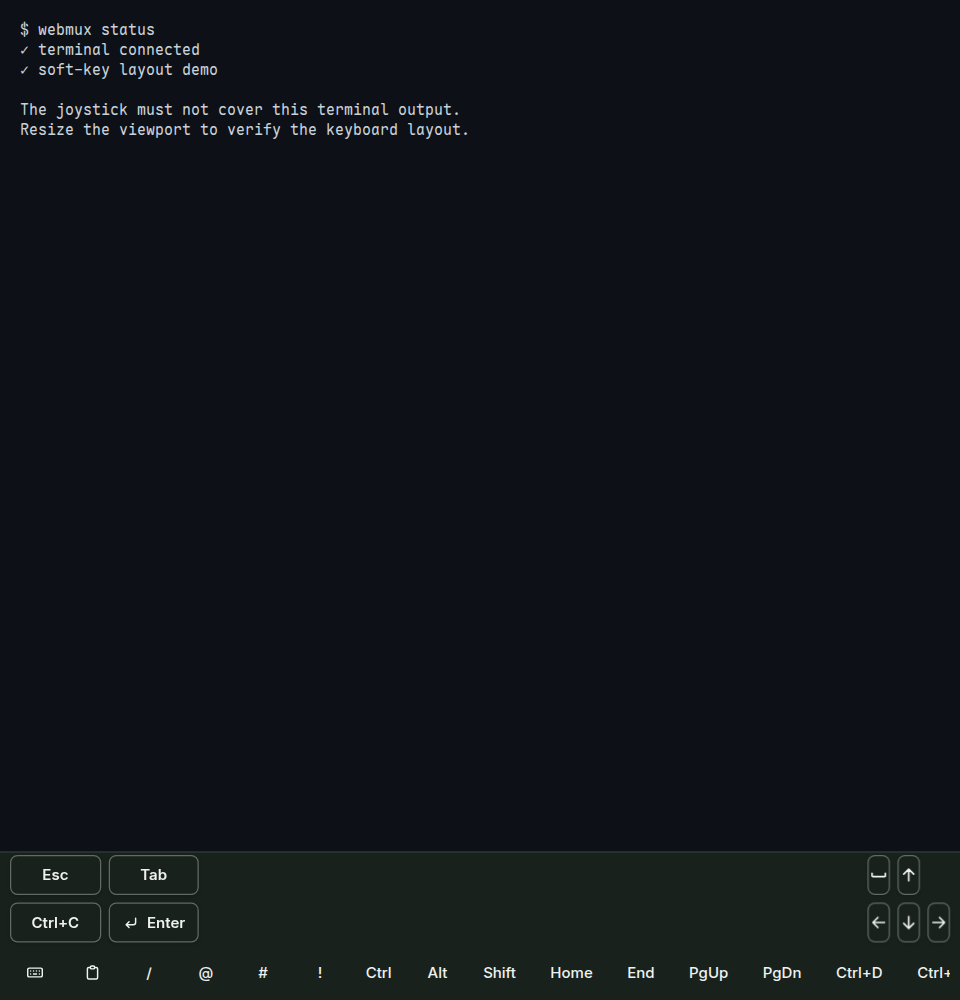
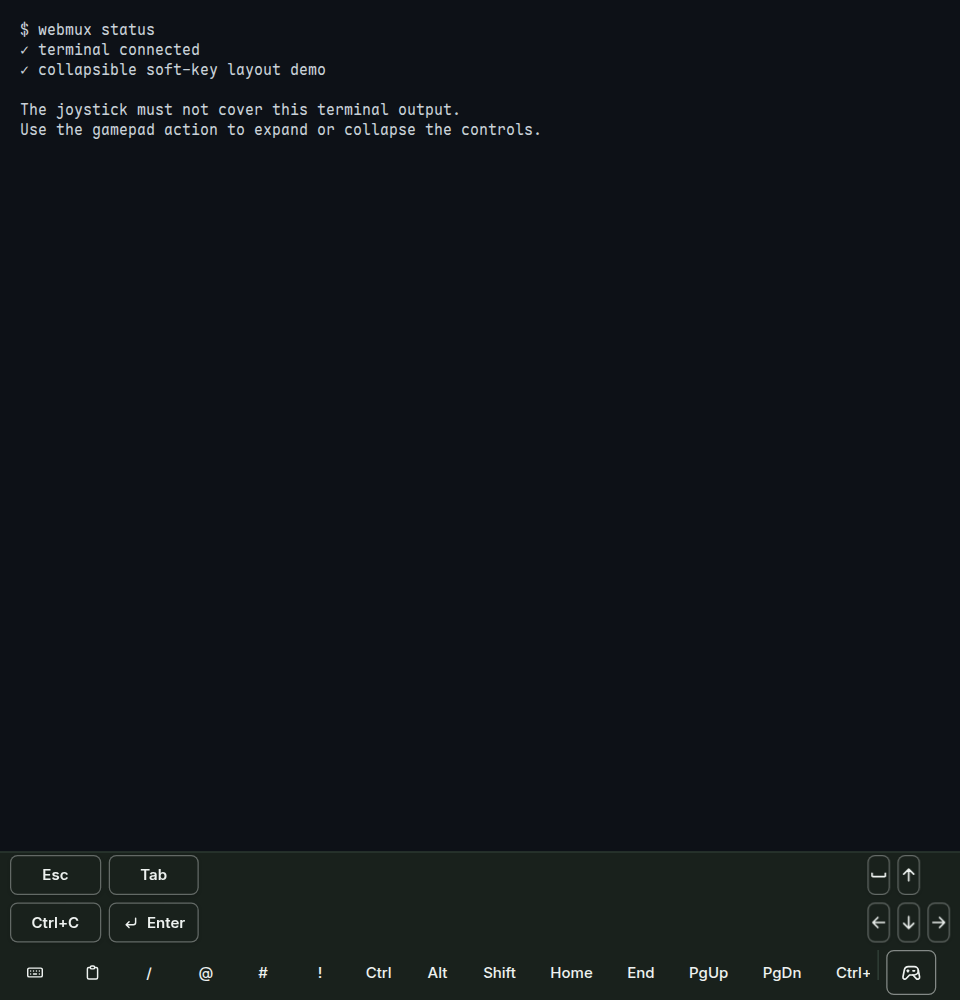
feat(web): collapse gamepad from soft keys

Changed region(s): [[0.0312, 0.124, 0.5625, 0.155], [0.0625, 0.062, 0.3438, 0.093], [0.9062, 0.961, 1.0, 1.0]]

diff --git a/web/test/e2e/softkeys.spec.ts b/web/test/e2e/softkeys.spec.ts
@@ -407,10 +407,6 @@ test("desktop devices can force the soft-key toolbar on and off through the term
     name: "强制显示底部工具栏",
     exact: true,
   });
-  const gamepadToggle = page.getByRole("menuitemcheckbox", {
-    name: "软键盘摇杆模式",
-    exact: true,
-  });
   const input = page.locator(".xterm-helper-textarea");
   const keyboard = bar.getByRole("button", { name: "唤起或收起键盘" });
 
@@ -429,11 +425,12 @@ test("desktop devices can force the soft-key toolbar on and off through the term
   await keyboard.click();
   await expect(input).not.toBeFocused();
 
-  await menu.click();
-  await gamepadToggle.click();
-  await page.keyboard.press("Escape");
+  await bar.getByRole("button", { name: "展开摇杆", exact: true }).click();
   const gamepad = bar.getByRole("toolbar", { name: "终端摇杆" });
   await expect(gamepad).toBeVisible();
+  await expect(
+    bar.getByRole("button", { name: "收起摇杆", exact: true }),
+  ).toHaveAttribute("aria-expanded", "true");
 
   await menu.click();
   await expect(override).toBeChecked();
@@ -458,9 +455,8 @@ test("touch gamepad mode lays out inside the soft-key bar without covering the t
   const id = await createShell(page, "Touch gamepad", workDir);
   const bar = page.getByRole("complementary", { name: "终端软键" });
   const gamepad = bar.getByRole("toolbar", { name: "终端摇杆" });
-  const menu = page.getByRole("button", { name: "终端菜单", exact: true });
-  const toggleItem = page.getByRole("menuitemcheckbox", {
-    name: "软键盘摇杆模式",
+  const gamepadToggle = bar.getByRole("button", {
+    name: "展开摇杆",
     exact: true,
   });
 
@@ -473,12 +469,12 @@ test("touch gamepad mode lays out inside the soft-key bar without covering the t
     bar.getByRole("button", { name: "↵", exact: true }),
   ).toBeVisible();
 
-  // Enable touch gamepad mode via terminal menu.
-  await menu.tap();
-  await expect(toggleItem).not.toBeChecked();
-  await toggleItem.tap();
-  await expect(toggleItem).toBeChecked();
-  await page.keyboard.press("Escape");
+  // Expand the gamepad from the fixed soft-key action.
+  await expect(gamepadToggle).toHaveAttribute("aria-expanded", "false");
+  await gamepadToggle.tap();
+  await expect(
+    bar.getByRole("button", { name: "收起摇杆", exact: true }),
+  ).toHaveAttribute("aria-expanded", "true");
 
   // Controlling client sees the gamepad in the bar and a deduplicated key row.
   await expect(gamepad).toBeVisible();
@@ -546,4 +542,10 @@ test("touch gamepad mode lays out inside the soft-key bar without covering the t
   await gamepad.getByRole("button", { name: "空格", exact: true }).tap();
   await gamepad.getByRole("button", { name: "回车", exact: true }).tap();
   await expect.poll(() => readFile(received, "utf8")).toBe("\x1b \r");
+
+  await bar.getByRole("button", { name: "收起摇杆", exact: true }).tap();
+  await expect(gamepad).toBeHidden();
+  await expect(
+    bar.locator(".soft-row").getByRole("button", { name: "Esc", exact: true }),
+  ).toBeVisible();
 });

diff --git a/web/src/components/TerminalViewport.svelte b/web/src/components/TerminalViewport.svelte
@@ -1,6 +1,7 @@
 <script lang="ts">
   import type { Snippet } from "svelte";
   import IconArrowDown from "~icons/tabler/arrow-down";
+  import IconDeviceGamepad2 from "~icons/tabler/device-gamepad-2";
   import {
     Button,
     type ButtonSize,
@@ -45,6 +46,7 @@
     paste,
     keyboard,
     touchGamepad = false,
+    setTouchGamepad,
     findOpen = false,
     findBar,
   }: {
@@ -64,17 +66,19 @@
     paste: () => Promise<void>;
     keyboard: () => void;
     touchGamepad?: boolean;
+    setTouchGamepad: (value: boolean) => void;
     findOpen?: boolean;
     findBar?: Snippet;
   } = $props();
 
-  const gamepadActive = $derived(
-    touchGamepad &&
-      t.controlling === true &&
+  const gamepadAvailable = $derived(
+    t.controlling === true &&
       t.connection !== "missing" &&
       (t.exitCode === null || t.exitCode === undefined) &&
       visible,
   );
+  const gamepadActive = $derived(touchGamepad && gamepadAvailable);
+  const gamepadToggleLabel = $derived(gamepadActive ? "收起摇杆" : "展开摇杆");
 
   // Keep the hint off touch screens, including hybrids whose secondary pointer
   // is coarse, and mirror the platform's actual copy shortcut.
@@ -156,10 +160,20 @@
     }}
     {keyboard}
   >
-    {#snippet trailing()}{@render draftToggle()}{@render quickMenu(
-        "top",
-        "icon-sm",
-        "ghost",
-      )}{/snippet}
+    {#snippet trailing()}
+      <Button
+        variant="ghost"
+        size="icon-sm"
+        aria-label={gamepadToggleLabel}
+        title={gamepadToggleLabel}
+        aria-expanded={gamepadActive}
+        disabled={!gamepadAvailable}
+        onmousedown={(event) => event.preventDefault()}
+        onclick={() => setTouchGamepad(!touchGamepad)}
+      >
+        <IconDeviceGamepad2 aria-hidden="true" />
+      </Button>
+      {@render draftToggle()}{@render quickMenu("top", "icon-sm", "ghost")}
+    {/snippet}
   </SoftKeys>
 </div>

diff --git a/web/test/browser/TerminalViewport.test.ts b/web/test/browser/TerminalViewport.test.ts
@@ -19,6 +19,9 @@ test("touch gamepad renders only when enabled and controlling, supports slide-to
 
   // Not controlling: gamepad is hidden and bottom row keeps full keys.
   expect(document.querySelector('[aria-label="终端摇杆"]')).toBeNull();
+  await expect
+    .element(page.getByRole("button", { name: "展开摇杆" }))
+    .toBeDisabled();
   expect(
     [...document.querySelectorAll(".soft-row button")].some(
       (b) => b.textContent === "Esc",
@@ -123,6 +126,32 @@ test("touch gamepad renders only when enabled and controlling, supports slide-to
       pointerId: 2,
     }),
   );
+});
+
+test("soft-key action expands and collapses the gamepad", async () => {
+  const setTouchGamepad = vi.fn();
+  const view = await render(Harness, {
+    connection: "connected",
+    controlling: true,
+    touchGamepad: false,
+    setTouchGamepad,
+  });
+
+  const expand = page.getByRole("button", { name: "展开摇杆" });
+  await expect.element(expand).toHaveAttribute("aria-expanded", "false");
+  await expand.click();
+  expect(setTouchGamepad).toHaveBeenCalledWith(true);
+
+  await view.rerender({
+    connection: "connected",
+    controlling: true,
+    touchGamepad: true,
+    setTouchGamepad,
+  });
+  const collapse = page.getByRole("button", { name: "收起摇杆" });
+  await expect.element(collapse).toHaveAttribute("aria-expanded", "true");
+  await collapse.click();
+  expect(setTouchGamepad).toHaveBeenCalledWith(false);
 });
 
 test.each(["connecting", "reconnecting"] as const)(

diff --git a/web/src/components/TerminalHeader.svelte b/web/src/components/TerminalHeader.svelte
@@ -61,8 +61,6 @@
     setSizeLocked,
     keyboardSizeHold,
     setKeyboardSizeHold,
-    touchGamepad = false,
-    setTouchGamepad = () => {},
     codeShown = $bindable(),
     forceSoftKeys = $bindable(),
     quickMenu,
@@ -89,8 +87,6 @@
     setSizeLocked: (value: boolean) => void;
     keyboardSizeHold: boolean;
     setKeyboardSizeHold: (value: boolean) => void;
-    touchGamepad?: boolean;
-    setTouchGamepad?: (value: boolean) => void;
     codeShown: boolean;
     forceSoftKeys: boolean;
     quickMenu: Snippet<["top" | "bottom", ButtonSize?, ButtonVariant?]>;
@@ -409,12 +405,6 @@
           </DropdownMenu.CheckboxItem>
           <DropdownMenu.CheckboxItem bind:checked={forceSoftKeys}>
             强制显示底部工具栏
-          </DropdownMenu.CheckboxItem>
-          <DropdownMenu.CheckboxItem
-            checked={touchGamepad}
-            onCheckedChange={(value) => setTouchGamepad(value === true)}
-          >
-            软键盘摇杆模式
           </DropdownMenu.CheckboxItem>
         </DropdownMenu.Group>
       {/if}

diff --git a/web/src/components/SessionTerminal.svelte b/web/src/components/SessionTerminal.svelte
@@ -776,8 +776,6 @@
     {setSizeLocked}
     keyboardSizeHold={keyboardSizeHold.enabled}
     {setKeyboardSizeHold}
-    touchGamepad={touchGamepad.enabled}
-    {setTouchGamepad}
     bind:codeShown
     bind:forceSoftKeys={
       () => forceSoftKeys, (value) => changeSettings({ forceSoftKeys: value })
@@ -859,6 +857,7 @@
             visible={terminalVisible()}
             sizeLocked={sizeLocked || keyboardHeld}
             touchGamepad={touchGamepad.enabled}
+            {setTouchGamepad}
             {findOpen}
             {uploads}
             {quickMenu}

diff --git a/web/test/browser/TerminalViewportHarness.svelte b/web/test/browser/TerminalViewportHarness.svelte
@@ -10,6 +10,7 @@
     touchGamepad = false,
     send = () => {},
     toggle = () => {},
+    setTouchGamepad = () => {},
   }: {
     connection?: Connection;
     restoring?: boolean;
@@ -18,6 +19,7 @@
     touchGamepad?: boolean;
     send?: (input: string) => void;
     toggle?: (key: "ctrl" | "alt" | "shift") => void;
+    setTouchGamepad?: (value: boolean) => void;
   } = $props();
 
   const terminal = {
@@ -55,6 +57,7 @@
     {terminal}
     visible
     {touchGamepad}
+    {setTouchGamepad}
     {uploads}
     {quickMenu}
     {draftToggle}

diff --git a/docs/user-stories/verification-log-2026-11-shell.md b/docs/user-stories/verification-log-2026-11-shell.md
@@ -163,9 +163,12 @@
 - 已运行：本机实测 `claude 2.1.316`、`codex 0.166.0`、`opencode 2.1.4`、`omp 18.17.0`、`agy 1.5.2` 的 `--`、`-` 前缀、多行与子命令参数行为；`go test -race` 覆盖 `internal/agentprofile/...`、`internal/hybrid/...`、`internal/workspace/...`；`make docs-check`、`make go-lint`；
 - 限制：本机未安装 `qoder` 与 `qodercn`，二者保持 `InitialPrompt == nil` 走 `SendWhenReady` 旧路径，待实测后再迁移。
 
-本次局部核对（2026-11-09，软键盘摇杆布局）：将摇杆从终端内的绝对定位浮层迁入软键栏独立行，由栏体布局自然压缩终端区域，并随软键栏及控制状态显隐；移除终端触摸淡化、悬浮穿透逻辑及按键组外层边框、背景与阴影，按键组直接沿用软键栏表面，保留按键映射、方向连发和滑动切向。
+本次局部核对（2026-11-09，软键盘摇杆布局）：软键盘摇杆改为栏内可折叠面板，不再遮挡终端。
+
+- 布局与开关：摇杆从终端内的绝对定位浮层迁入软键栏独立行，由栏体布局自然压缩终端区域，并随软键栏及控制状态显隐；软键栏右侧固定操作区提供“展开摇杆／收起摇杆”开关并保存本机偏好，移除终端菜单旧入口。
+- 样式与交互：移除终端触摸淡化、悬浮穿透逻辑及按键组外层边框、背景与阴影，按键组直接沿用软键栏表面，保留按键映射、方向连发和滑动切向。
 
 - 更新的故事：US-H01；索引与故事数量不变。
-- 已运行：`make check`；`TerminalViewport`、`SoftKeys` Vitest 浏览器组件测试（9 项）；Playwright `softkeys.spec.ts`（9 项通过、9 项按平台跳过），覆盖移动端栏内几何关系、无横向溢出、控制切换、按键输入与桌面强制栏显隐联动。
-- 视觉核对：真实 Storybook 组件下桌面（1280×900）、平板（768×800）、手机（390×844）明暗主题前后对比，另核对 375×667、320×568、667×375 横屏与 1280×720；摇杆均位于软键栏内、不与终端重叠且无页面横向溢出；记录手机深色主题交互 GIF。
+- 已运行：`make check`；`TerminalViewport`、`SoftKeys` Vitest 浏览器组件测试（10 项）；Playwright `softkeys.spec.ts`（9 项通过、9 项按平台跳过），覆盖移动端栏内几何关系、无横向溢出、控制切换、按键输入与桌面强制栏显隐联动。
+- 视觉核对：真实 Storybook 组件下桌面（1280×900）、平板（768×800）、手机（390×844）明暗主题前后对比，另核对 375×667、320×568、667×375 横屏与 1280×720；摇杆均位于软键栏内、不与终端重叠且无页面横向溢出，固定开关完整可见；补充手机折叠状态截图及展开、收起交互 GIF。
 - 限制：未在 iOS/Android 真机核对；视觉截图通过强制显示软键栏生成，未验证系统 IME 开合；未运行其余未受影响的 E2E、Storybook 与性能套件。

diff --git a/docs/user-stories/terminal.md b/docs/user-stories/terminal.md
@@ -239,7 +239,8 @@
   - Shift 点按为一次性、长按约 0.5 秒锁定并在再次点按后解除，锁定时按钮显示锁图标；
   - 可与 Tab、方向键、Home/End、翻页组成带 Shift 的序列，点按或锁定后对虚拟与实体键盘的后续输入同样应用 Shift；
   - 符号映射按 US 布局；
-  - 终端菜单“显示”分组提供“软键盘摇杆模式”开关（保存在本机浏览器）：开启且当前客户端已接管控制、连接正常、进程未退出时，在软键栏内的独立一行显示摇杆（左侧 Esc、Tab、Ctrl+C 与回车 `Enter`，右侧左上角空格与十字方向键）；摇杆随软键栏显示或隐藏，观察模式或未接管时不显示；
+  - 软键栏右侧固定操作区提供“展开摇杆／收起摇杆”开关；折叠时显示普通软键，无法操控时开关禁用，摇杆随软键栏显示或隐藏；
+  - 展开偏好保存在本机浏览器；展开且当前客户端已接管控制、连接正常、进程未退出时，在软键栏内的独立一行显示摇杆（左侧 Esc、Tab、Ctrl+C 与回车 `Enter`，右侧左上角空格与十字方向键），观察模式或未接管时不显示；
   - 摇杆的方向键支持按住连发与不抬手滑动切向；摇杆激活时底部软键栏自动隐藏重复的 Esc、Tab、`↵`、方向键与 Ctrl+C（保留 Ctrl/Alt/Shift）；摇杆按键组直接沿用软键栏表面，不增加外层边框、背景或阴影；摇杆占用软键栏布局空间并自然压缩终端区域，不覆盖或拦截终端，终端仍可单指滑动滚动与长按选词。
 - **US-H02 主动开合键盘**：作为触摸设备使用者，我希望自己决定何时打开虚拟键盘，以便阅读和点选时保留屏幕空间。
   验收要点：
